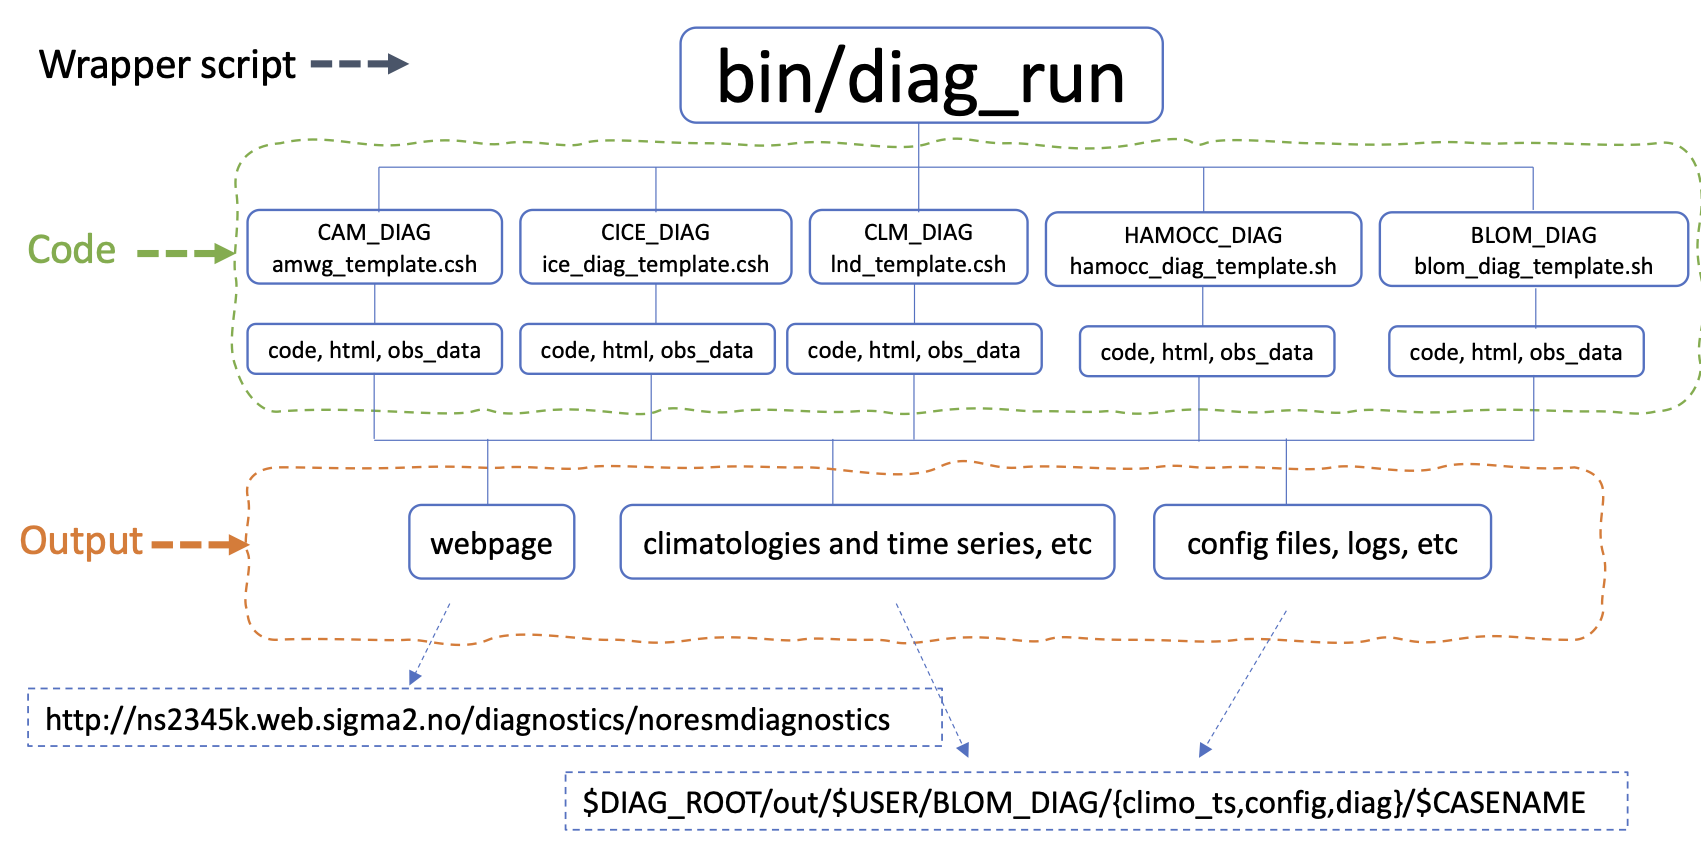
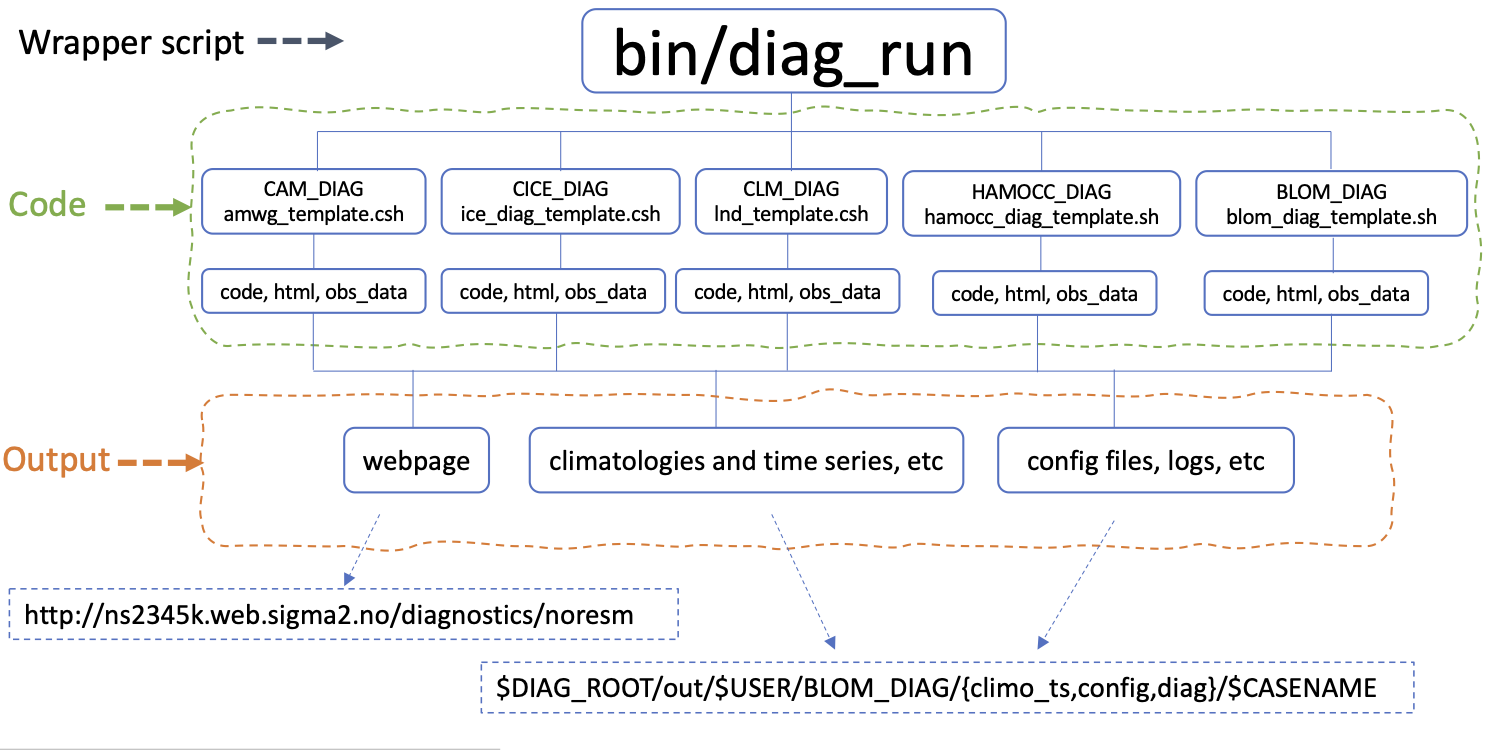
minor update

diff --git a/_episodes/05-exercise1.md b/_episodes/05-exercise1.md
@@ -145,6 +145,8 @@ For those have access to NS2345K and NS9560K on NIRD, there are plent of CMIP6 e
 Find out where is the casename and the location of each experiment:
 [https://noresmhub.github.io/noresm-exp/intro.html](https://noresmhub.github.io/noresm-exp/intro.html)
 
+Finally, after the `diag_run` is finished running, browser the result at [http://ns2345k.web.sigma2.no/diagnostics/noresm/\<usernname\>](http://ns2345k.web.sigma2.no/diagnostics/noresm)
+
 ---
 
 ### Task1.3 Model-model comparison
@@ -158,7 +160,7 @@ $ diag_run  -m cam -c1 NHIST_f19_tn14_20190710 –s1 1985 -e1 2014 –i1 /projec
 ```
 
 >## Challenge
-* User your own experiment
+User your own experiment! \
 For example:
 ```bash
 $ diag_run -m blom -c1 NHISTfrc2_workshop2021 -s1 1850 -e1 1859 -i1 /projects/NS2345K/workshop2021/yanchun -c2 N1850frc2_workshop2021 -s2 1 -e2 10 -i2 /projects/NS2345K/workshop2021/yanchun -o /projects/NS2345K/diagnostics/noresm/out/$USER -w /projects/NS2345K/www/diagnostics/noresm/$USER
@@ -171,6 +173,7 @@ Diagnose only ocean component with passive mode `-p`
 
 ```bash
 # Example
+# (replace with your own experiments)
 $ diag_run -m blom -c NHIST_f19_tn14_20190710 -s 1985 -e 2014 -p
 ```
 In the standard output, you can find lines like:
@@ -179,7 +182,7 @@ In the standard output, you can find lines like:
 BLOM DIAGNOSTICS SUCCESSFULLY CONFIGURED in /projects/NS2345K/diagnostics/noresm/out/$USER/BLOM_DIAG
 ...
 ```
-Go the that directory and check the shell script there, which is job script for each component.
+Go the that directory and check the shell script there, which is job script for each component. You can find the main script for the ocean component `blom_diag_template.sh`.
 
 ### Task 2.2
 
@@ -191,7 +194,8 @@ change:
 ```
 set_1=1
 set_3=1
-others =0
+
+set all other sets_*=0
 ```
 and then submit the job script, i.e, `./blom_diag_template.sh`
 
@@ -211,6 +215,8 @@ and then resubmit `blom_diag_template.sh`
 
 ### Task 2.4
 Diagnose only atmospheric component with passive mode `-p`, and switch on the chemistry sets and `significance test` when comparing two models.
+
+Note, it requires at least 10 years to have the `significance test` for differnce-plots.
 
 ```bash
 # Example

diff --git a/_episodes/07-exercise2.md b/_episodes/07-exercise2.md
@@ -69,7 +69,6 @@ cd task3
 
 # or
 # rotate and view with NCL
-module load NCL/6.5.0-intel-2018a
 ncl task3.ncl
 ```
 >## Exercise
@@ -88,3 +87,4 @@ Urot    = U*cos(angle)-V*sin(angle)
 Vrot    = U*sin(angle)+V*cos(angle)
 ```
 {: .solution}
+
